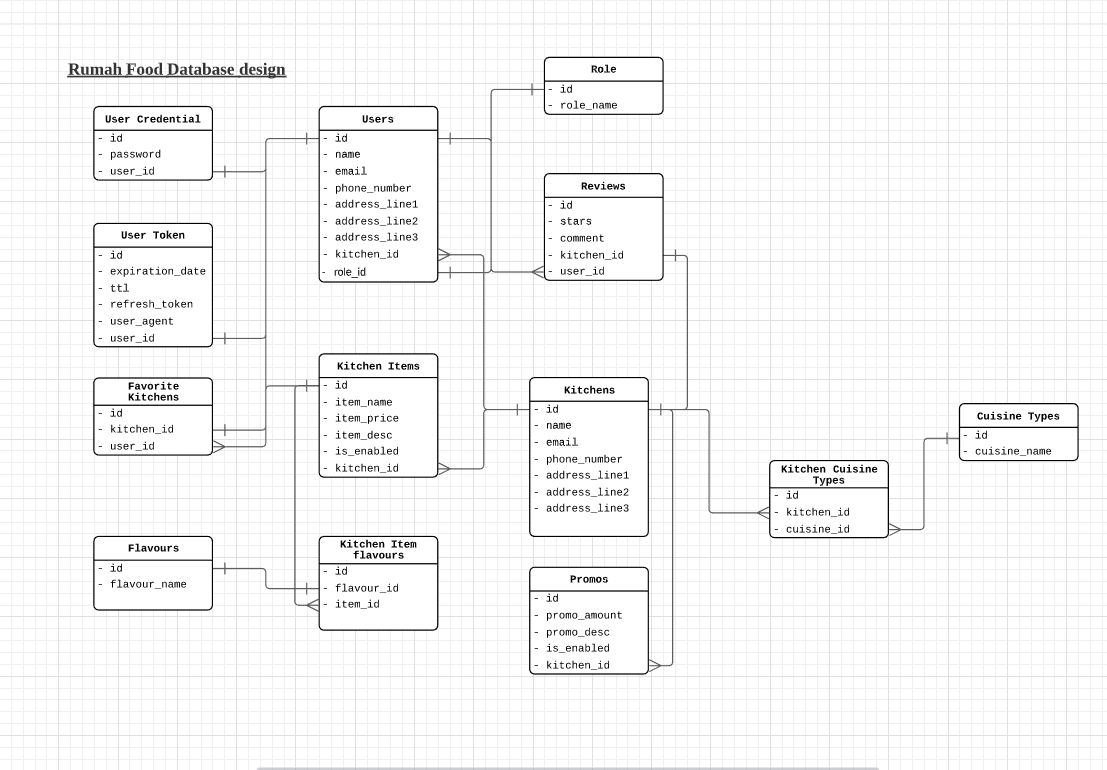
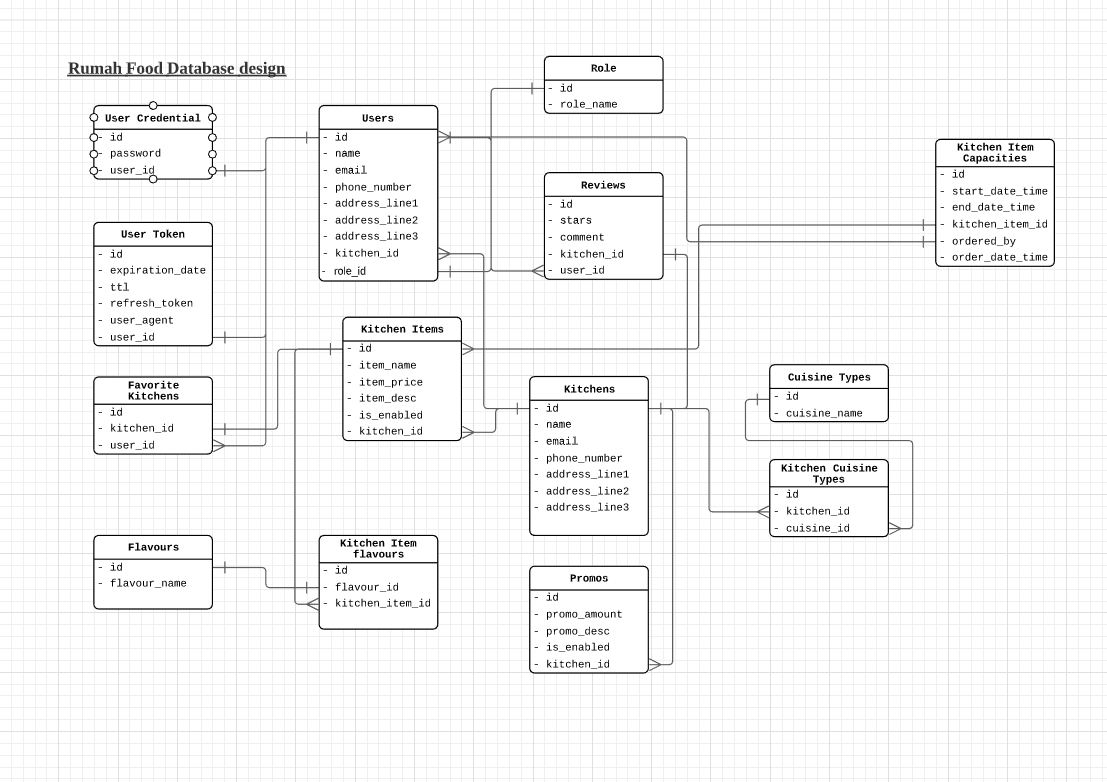
add item capacity logic + new table creation

diff --git a/controllers/open-api-spec/kitchen-v1-route.js b/controllers/open-api-spec/kitchen-v1-route.js
@@ -303,6 +303,40 @@ const paths = (tags = ["Kitchen"]) => {
         },
       },
     },
+    [`${CONSTANTS.API.VERSIONS["V1.0"].BASE_PATH}/kitchen/capacity`]: {
+      post: {
+        tags,
+        description: "Endpoint to create capacity.",
+        requestBody: {
+          description: "Payload to create capacity.",
+          content: {
+            "application/json": {
+              schema: {
+                $ref: "#/components/schemas/CreateCapacity",
+              },
+            },
+          },
+        },
+        security: [
+          {
+            bearerAuth: [],
+          },
+        ],
+        operationId: "createCapacity",
+        responses: {
+          200: {
+            description: "Successful capacity creation.",
+            content: {
+              "application/json": {
+                schema: {
+                  type: "object",
+                },
+              },
+            },
+          },
+        },
+      },
+    },
   };
 };
 
@@ -398,6 +432,36 @@ const schemas = {
           ],
         },
         example: [CONSTANTS.FLAVOURS.FLAVOUR_ENUMS.VANILLA.id],
+      },
+    },
+  },
+  CreateCapacity: {
+    type: "object",
+    properties: {
+      startDateTime: {
+        type: "string",
+        description: "Start date of capacity.",
+        required: true,
+        example: "2020-10-28",
+      },
+      endDateTime: {
+        type: "string",
+        description: "End date of capacity.",
+        required: true,
+        example: "2020-10-28",
+      },
+      kitchenItemId: {
+        //uuid
+        type: "string",
+        description: "Kitchen item id.",
+        required: true,
+        example: '1b762adb-7652-42b7-b61c-85c57078629f',
+      },
+      amount: {
+        type: "integer",
+        description: "Amount of capacities to add.",
+        required: true,
+        example: 1,
       },
     },
   },

diff --git a/services/kitchen-service.js b/services/kitchen-service.js
@@ -82,7 +82,7 @@ module.exports = class KitchenService extends BaseClass {
       throw super.ErrorUtil.ItemIdInvalidError();
     }
 
-    const itemExist = await super.KitchenRepo.FindItemById({
+    const itemExist = await this.FindItemById({
       id,
     });
 
@@ -108,7 +108,7 @@ module.exports = class KitchenService extends BaseClass {
     }
     const { flavours } = payload;
     delete payload.flavours;
-    const itemExist = await super.KitchenRepo.FindItemById({
+    const itemExist = await this.FindItemById({
       id,
     });
 
@@ -131,5 +131,27 @@ module.exports = class KitchenService extends BaseClass {
 
   async FindFlavours() {
     return await super.KitchenRepo.FindFlavours();
+  }
+
+  async CreateCapacity({ payload }) {
+    if (!this.ValidationUtil.isCreateCapacityObject(payload)) {
+      throw super.ErrorUtil.CapacityMetadataInvalidError();
+    }
+
+    const { kitchenItemId, amount } = payload;
+    delete payload.amount;
+    const itemExist = await this.FindItemById({
+      id: kitchenItemId,
+    });
+
+    if (!itemExist) {
+      throw super.ErrorUtil.ItemNotFoundError();
+    }
+    let promises = [];
+    for (let i = 0; i < amount; i++) {
+      promises.push(super.KitchenRepo.CreateCapacity({ payload }));
+    }
+    // await super.KitchenRepo.CreateCapacity({payload});
+    await Promise.all(promises);
   }
 };

diff --git a/models/primary/kitchen-item-capacities.js b/models/primary/kitchen-item-capacities.js
@@ -1,0 +1,40 @@
+"use strict";
+
+module.exports = (sequelize, Sequelize) => {
+  const tableName = "KitchenItemCapacities";
+
+  const tableDefintion = {
+    id: {
+      primaryKey: true,
+      type: Sequelize.UUID,
+      defaultValue: Sequelize.UUIDV4,
+      unique: true,
+    },
+    startDateTime: {
+      type: Sequelize.DATE,
+      allowNull: false,
+    },
+    endDateTime: {
+      type: Sequelize.DATE,
+      allowNull: false,
+    },
+    orderDateTime: {
+      type: Sequelize.DATE,
+      allowNull: true,
+    },
+  };
+
+  const table = sequelize.define(tableName, tableDefintion, {
+    underscored: true,
+  });
+
+  table.associate = (models) => {
+    models.KitchenItems.hasMany(table);
+    table.belongsTo(models.KitchenItems, { foreignKey: "kitchenItemId" });
+
+    models.Users.hasMany(table);
+    table.belongsTo(models.Users);
+  };
+
+  return table;
+};

diff --git a/utilities/validation.js b/utilities/validation.js
@@ -140,6 +140,20 @@ const isUpdateItemObject = (input) => {
     .isValidSync(input);
 };
 
+const isCreateCapacityObject = (input) => {
+  return Yup.object()
+    .shape({
+      startDateTime: dateStringFormat(),
+      endDateTime: dateStringFormat(),
+      kitchenItemId: requiredUUID(),
+      amount: requiredInteger(),
+      // orderDateTime: requiredDate(),
+      // userId: requiredInteger(),
+    })
+    .required()
+    .isValidSync(input);
+};
+
 const isString = (input) => {
   return requiredString().isValidSync(input);
 };
@@ -230,6 +244,10 @@ const optionalBoolean = () => {
   return Yup.bool().notRequired();
 };
 
+const requiredDate = () => {
+  return Yup.date().required();
+};
+
 module.exports = {
   isNumberArray,
   isUserObject,
@@ -245,4 +263,5 @@ module.exports = {
   isFindItemsObject,
   isUUID,
   isUpdateItemObject,
+  isCreateCapacityObject,
 };

diff --git a/controllers/kitchen-v1.js b/controllers/kitchen-v1.js
@@ -133,3 +133,24 @@ router.get(
     }
   }
 );
+
+router.post(
+  "/capacity",
+  middlewares.passport.jwtToken.authenticate("jwt", { session: false }),
+  middlewares.jtwTokenValidator.validate,
+  middlewares.authorization.authorizeRole([
+    constants.USER_ROLES.ROLE_ENUMS.SELLER.id,
+  ]),
+  async (req, res, next) => {
+    const { body } = req;
+    try {
+      const createdEntry = await new Services.Kitchen().CreateCapacity({
+        payload: body,
+      });
+      res.status(201);
+      res.json(createdEntry);
+    } catch (error) {
+      next(error);
+    }
+  }
+);

diff --git a/utilities/error.js b/utilities/error.js
@@ -176,6 +176,13 @@ const ItemNotFoundError = () => {
   });
 };
 
+const CapacityMetadataInvalidError = () => {
+  return GenerateHttpError({
+    message: "Capacity metadata is invalid.",
+    httpErrorCode: 400,
+  });
+};
+
 module.exports = {
   GenerateHttpError,
   ConvertErrorToHttpError,
@@ -201,4 +208,5 @@ module.exports = {
   FindItemsParamsInvalidError,
   ItemIdInvalidError,
   ItemNotFoundError,
+  CapacityMetadataInvalidError
 };

diff --git a/repositories/db-primary/kitchen-repository.js b/repositories/db-primary/kitchen-repository.js
@@ -110,4 +110,8 @@ module.exports = class DbPrimaryUserRepository extends BaseClass {
   async FindFlavours() {
     return await super.PrimaryDbModels.Flavours.findAll({});
   }
+
+  async CreateCapacity({ payload }) {
+    return await super.PrimaryDbModels.KitchenItemCapacities.create(payload);
+  }
 };
